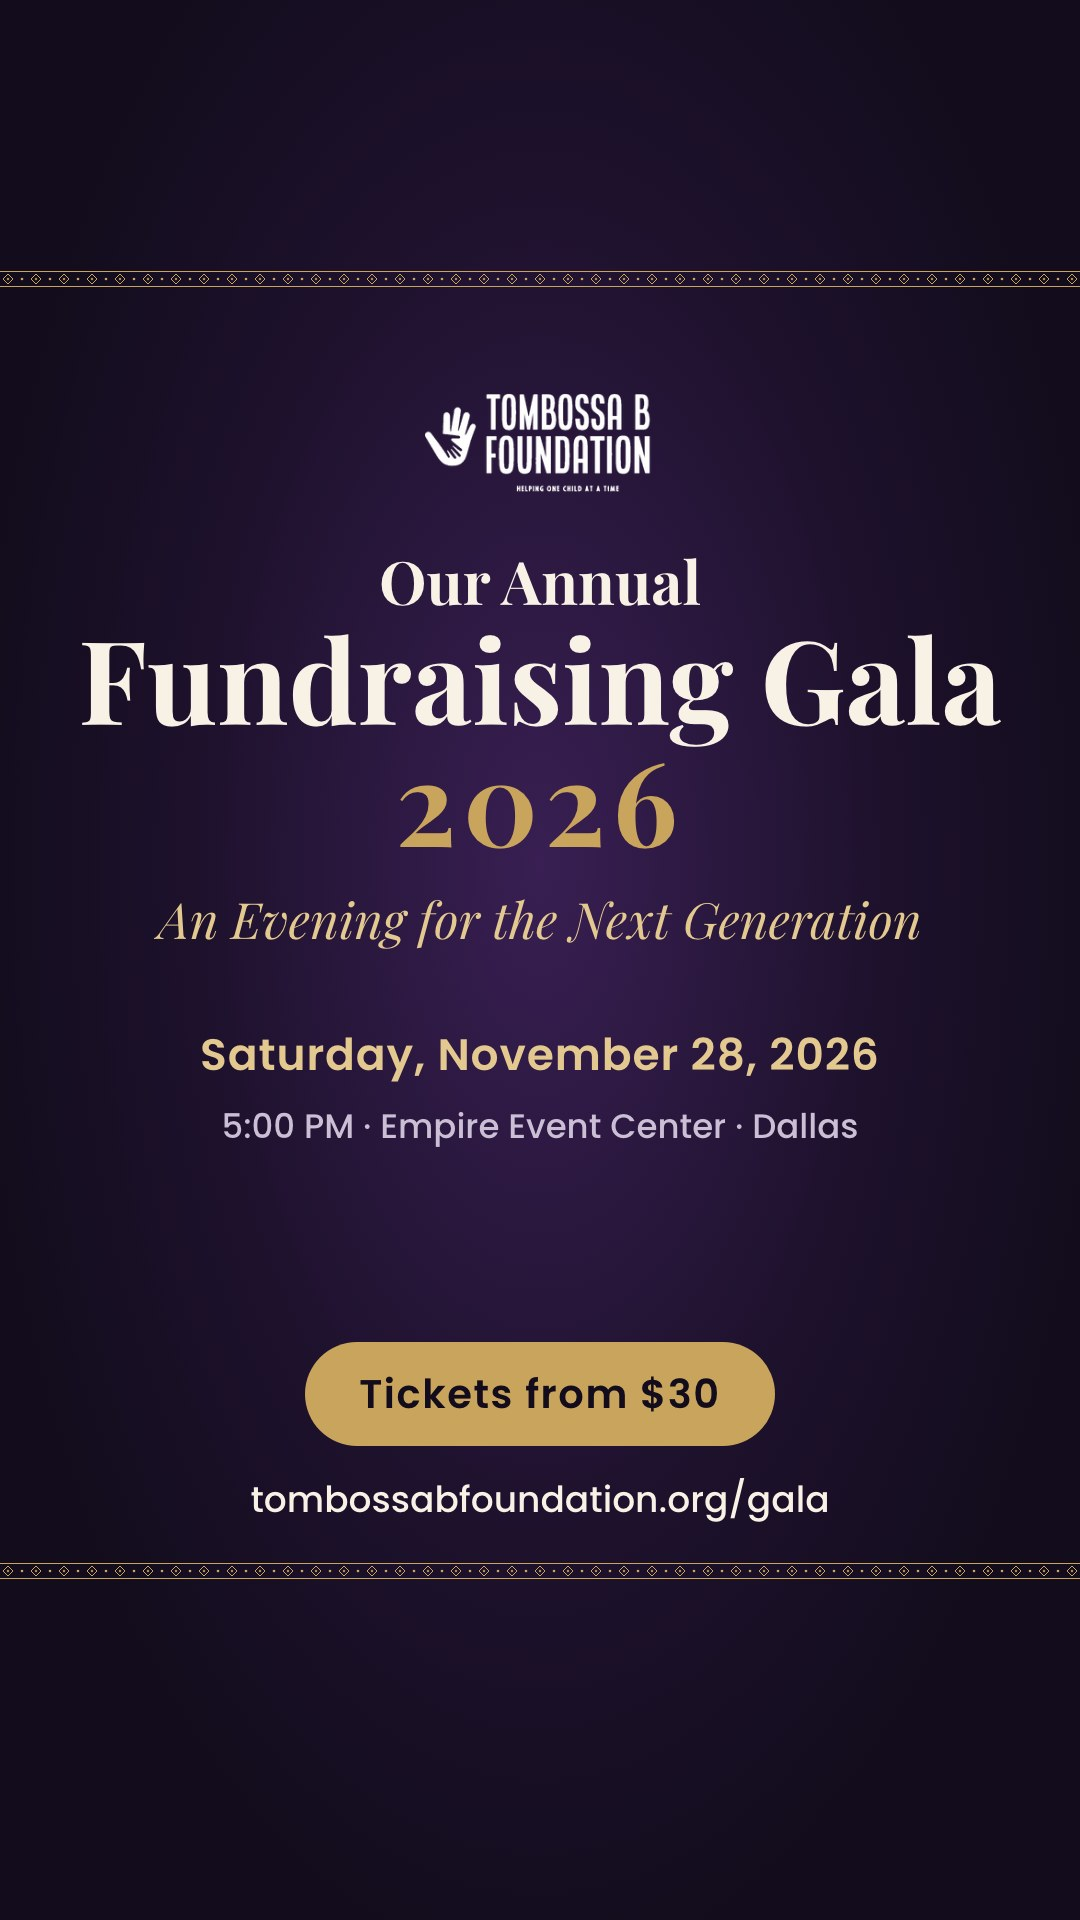
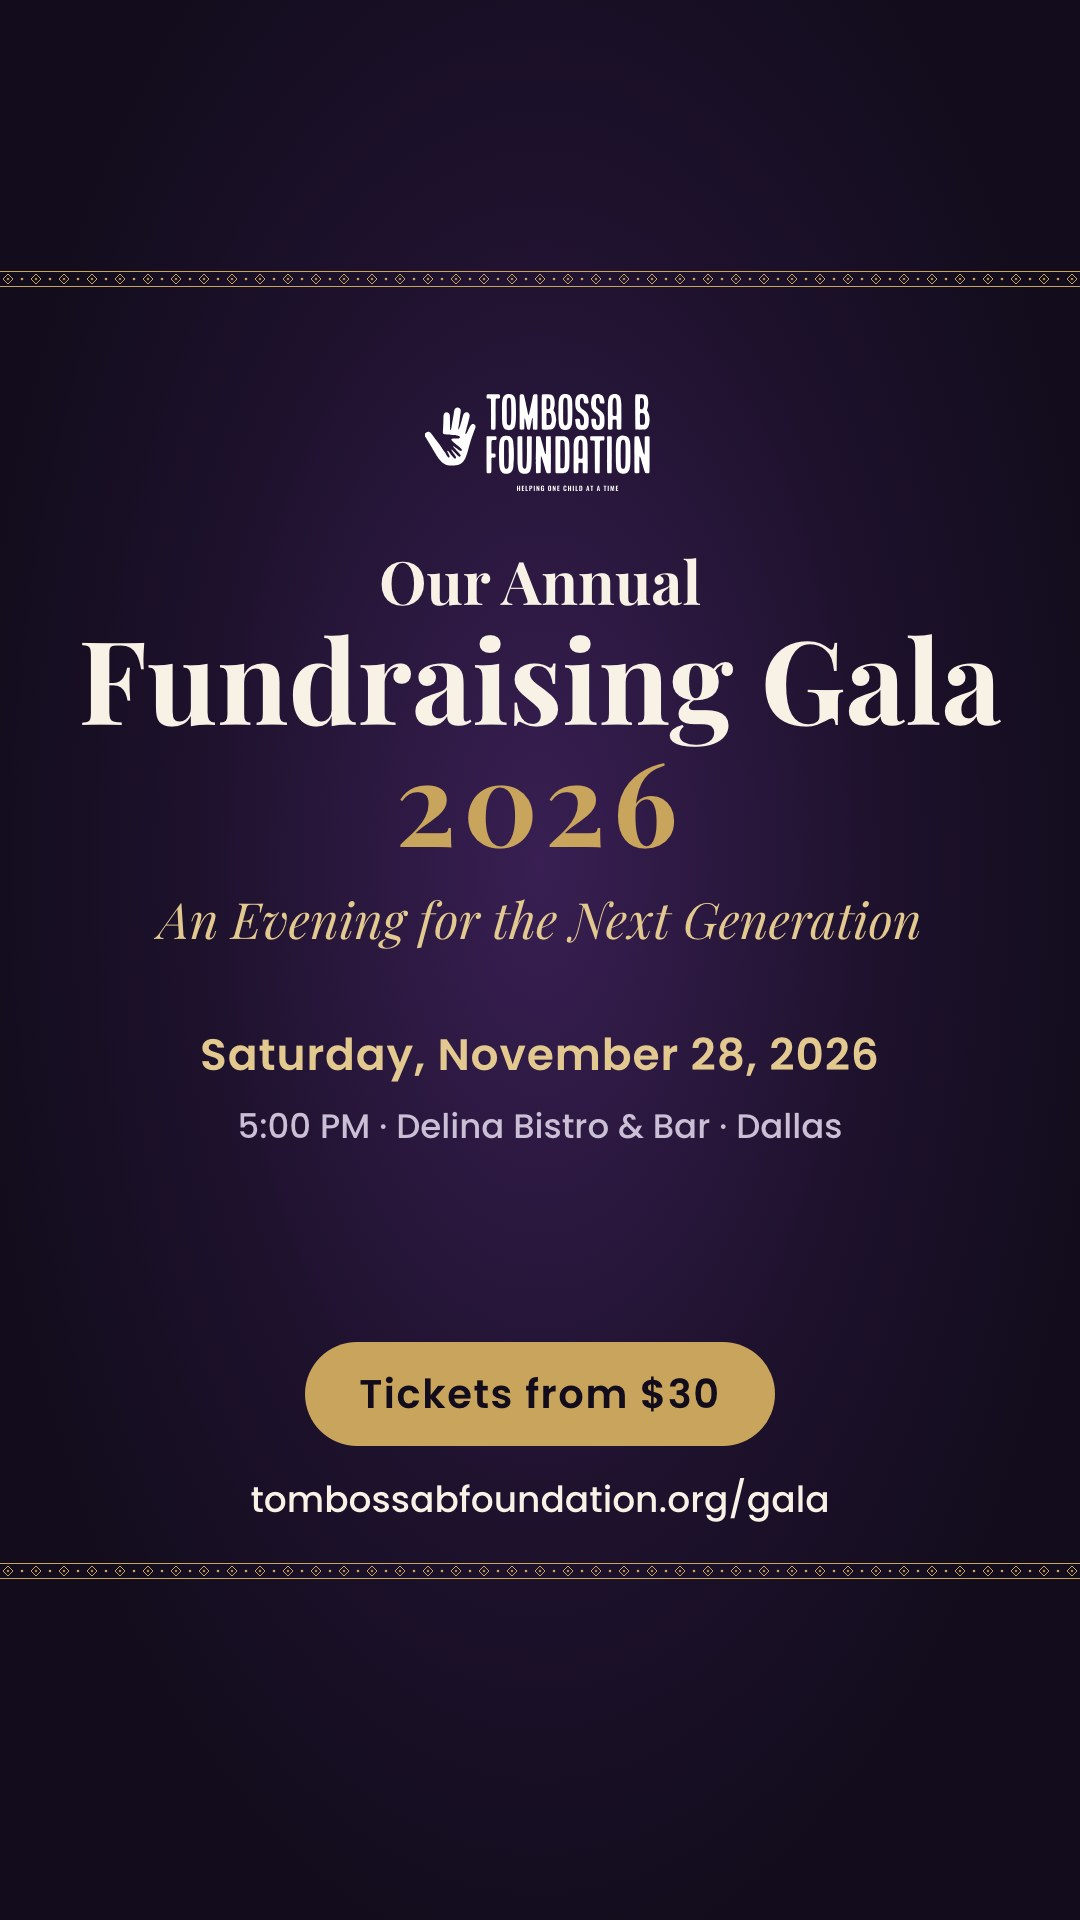
fix: move the gala to Delina Bistro & Bar and flag the new location

Changed region(s): [[0.2139, 0.5625, 0.7944, 0.5938], [0.4583, 0.2188, 0.5194, 0.25], [0.55, 0.2188, 0.5806, 0.25]]

diff --git a/frontend/lib/gala.js b/frontend/lib/gala.js
@@ -74,6 +74,22 @@ export const venueAddress = (g = GALA) => {
     return [name, street, venueCityLine(g)].filter(Boolean).join(', ');
 };
 
+// While venue.previousName is set (the venue changed after it was announced):
+// "New location: the gala has moved from Empire Event Center to Delina Bistro &
+// Bar, 6770 Abrams Rd #105, Dallas." for the /gala hero, and the shorter
+// "New location: Delina Bistro & Bar, 6770 Abrams Rd #105" for the homepage
+// slide. Both null otherwise.
+export const venueNotice = (g = GALA) => {
+    if (!hasVenue(g) || !g.venue.previousName) return null;
+    const { name, street, city, previousName } = g.venue;
+    return `New location: the gala has moved from ${previousName} to ${[name, street, city].filter(Boolean).join(', ')}.`;
+};
+
+export const venueNoticeShort = (g = GALA) => {
+    if (!hasVenue(g) || !g.venue.previousName) return null;
+    return `New location: ${[g.venue.name, g.venue.street].filter(Boolean).join(', ')}`;
+};
+
 // ---------------------------------------------------------------- state
 
 const CST_END_OF_DAY = 'T23:59:00-06:00';
@@ -247,7 +263,8 @@ export const icsContent = (now = new Date(), g = GALA) => {
         'CALSCALE:GREGORIAN',
         'METHOD:PUBLISH',
         'BEGIN:VEVENT',
-        `UID:gala-${g.year}@tombossabfoundation.org`,
+        // A new UID per calendarRevision (see the config).
+        `UID:gala-${g.year}${g.calendarRevision ? `-r${g.calendarRevision}` : ''}@tombossabfoundation.org`,
         `DTSTAMP:${utcStamp(now)}`,
         `DTSTART:${utcStamp(new Date(g.startAt))}`,
         ...(g.endAt ? [`DTEND:${utcStamp(new Date(g.endAt))}`] : []),

diff --git a/frontend/components/gala/Gala.module.css b/frontend/components/gala/Gala.module.css
@@ -315,6 +315,24 @@
     color: var(--gala-gold-soft);
     font-weight: 500;
 }
+/* "New location: ..." under the chips while venue.previousName is set: boxed
+   so guests who saw the old venue notice the change. */
+.venueNotice {
+    display: flex;
+    align-items: baseline;
+    gap: 10px;
+    max-width: 640px;
+    margin: 24px auto 0;
+    padding: 12px 18px;
+    border: 1px solid var(--gala-gold);
+    border-radius: 12px;
+    background: rgba(201, 164, 92, 0.12);
+    color: var(--gala-gold-soft);
+    font-weight: 500;
+    line-height: 1.55;
+    text-align: left;
+}
+.venueNotice i { color: var(--gala-gold); }
 
 /* ------------------------------------------------------------ story */
 
@@ -854,6 +872,8 @@
     }
     .chip { justify-content: center; gap: 8px; padding: 9px 10px; font-size: 13.5px; white-space: nowrap; }
     .chipWide { grid-column: 1 / -1; }
+    /* As wide as the chips above it. */
+    .venueNotice { max-width: 360px; margin: 20px max(-28px, calc((100% - 360px) / 2)) 0; padding: 10px 14px; font-size: 15px; }
     .shareButtons .btn { flex: 1 1 calc(50% - 12px); padding: 0 14px; }
 }
 
@@ -861,7 +881,7 @@
     .container.heroInner { padding: 0 40px 48px; }
     .h1 { font-size: calc((100vw - 80px) / 5.95); }
     .titleLead { font-size: 18px; }
-    .chips { margin-left: max(-26px, calc((100% - 360px) / 2)); margin-right: max(-26px, calc((100% - 360px) / 2)); }
+    .chips, .venueNotice { margin-left: max(-26px, calc((100% - 360px) / 2)); margin-right: max(-26px, calc((100% - 360px) / 2)); }
     .chip { gap: 6px; padding: 8px; font-size: 13px; }
 }
 

diff --git a/frontend/components/SliderOne.js b/frontend/components/SliderOne.js
@@ -12,12 +12,14 @@ import { Pagination, Autoplay } from 'swiper/modules';
 
 import { useGala } from './gala/GalaState';
 import { gala } from '../config/gala-2026';
+import { venueNoticeShort } from '../lib/gala';
 
-// Gala slide copy per gala state (config/gala-2026.js holds the text).
+// Gala slide copy per gala state (config/gala-2026.js holds the text). Until the
+// night, a venue change (venue.previousName) takes the subline's place.
 const GALA_SLIDE = {
-    coming_soon: { subline: gala.homeSlide.subline, primary: 'Learn More', sponsor: true, kicker: true },
-    on_sale: { subline: gala.homeSlide.subline, primary: 'Learn More', sponsor: true, kicker: true },
-    online_closed: { subline: gala.homeSlide.closedSubline, primary: 'Event Details', sponsor: false, kicker: false },
+    coming_soon: { subline: venueNoticeShort() ?? gala.homeSlide.subline, primary: 'Learn More', sponsor: true, kicker: true },
+    on_sale: { subline: venueNoticeShort() ?? gala.homeSlide.subline, primary: 'Learn More', sponsor: true, kicker: true },
+    online_closed: { subline: venueNoticeShort() ?? gala.homeSlide.closedSubline, primary: 'Event Details', sponsor: false, kicker: false },
     past: { subline: gala.homeSlide.pastSubline, primary: 'See the Recap', sponsor: false, kicker: false },
 };
 

diff --git a/frontend/config/gala-2026.js b/frontend/config/gala-2026.js
@@ -28,12 +28,21 @@ export const gala = {
     startTimeConfirmed: true,
     endAt: '2026-11-28T22:00:00-06:00', // 10:00 PM CST
     venue: {
-        name: 'Empire Event Center',
-        street: '9560 Skillman St, Suite 126',
+        name: 'Delina Bistro & Bar',
+        street: '6770 Abrams Rd #105',
         city: 'Dallas',
         region: 'TX',
-        postalCode: '75243',
+        postalCode: '75231',
+        // The venue announced before this one (moved on Nov 23). While set, /gala
+        // and the homepage slide flag the new location until the night; null = no notice.
+        previousName: 'Empire Event Center',
     },
+    // Calendar revision: bump it whenever the time or venue changes after people
+    // may have saved the event. Calendar apps don't reliably update a saved copy
+    // (Apple Calendar and Google ignore a re-added .ics with the same UID), so
+    // each revision gets its own UID: adding the event again always creates an
+    // entry with the new details. Guests are asked to delete the old one.
+    calendarRevision: 1,
     dressCode: {
         label: 'Cocktail Attire',
         detail:

diff --git a/frontend/components/gala/GalaHero.js b/frontend/components/gala/GalaHero.js
@@ -1,6 +1,6 @@
 import React from 'react';
 import { gala } from '../../config/gala-2026';
-import { BEFORE_EVENT, timeRange } from '../../lib/gala';
+import { BEFORE_EVENT, timeRange, venueNotice } from '../../lib/gala';
 import { ShowIn } from './GalaState';
 import Countdown from './Countdown';
 import Motif from './Motif';
@@ -43,6 +43,12 @@ const GalaHero = () => {
                 </ul>
 
                 <ShowIn states={BEFORE_EVENT}>
+                    {venueNotice() && (
+                        <p className={styles.venueNotice}>
+                            <i className="fa fa-map-marker" aria-hidden="true"></i>
+                            {venueNotice()}
+                        </p>
+                    )}
                     <div className={styles.intro}>
                         {gala.copy.intro.map((para) => <p key={para}>{para}</p>)}
                     </div>

diff --git a/frontend/components/gala/GalaFaq.js b/frontend/components/gala/GalaFaq.js
@@ -17,7 +17,11 @@ const WhenWhere = () => {
         );
     }
     const { name, street } = gala.venue;
-    const mapSrc = `https://maps.google.com/maps?q=${encodeURIComponent(venueAddress())}&output=embed`;
+    // The street address alone gets one pin and an address card. With the
+    // venue's name and suite number too, Google answers with a list of places
+    // in the building instead (no pin).
+    const mapQuery = street ? `${street}, ${venueCityLine()}` : venueAddress();
+    const mapSrc = `https://maps.google.com/maps?q=${encodeURIComponent(mapQuery)}&output=embed`;
     return (
         <>
             <p>{timeRange() ? `${gala.dateDisplay}, ${timeRange()}.` : `${gala.dateDisplay}. Time to be announced.`}</p>

diff --git a/docs/gala-2026-launch-checklist.md b/docs/gala-2026-launch-checklist.md
@@ -1,8 +1,29 @@
 # Gala 2026 launch checklist
 
-Manual steps outside the code for **https://tombossabfoundation.org/gala** (The Tombossa B Foundation Fundraising Gala, Saturday, November 28, 2026, Empire Event Center, Dallas). Everything the site shows comes from `frontend/config/gala-2026.js`; editing that file, then committing and deploying, is all a content change needs.
+Manual steps outside the code for **https://tombossabfoundation.org/gala** (The Tombossa B Foundation Fundraising Gala, Saturday, November 28, 2026, Delina Bistro & Bar, 6770 Abrams Rd #105, Dallas, TX 75231; moved from Empire Event Center on November 23). Everything the site shows comes from `frontend/config/gala-2026.js`; editing that file, then committing and deploying, is all a content change needs.
 
 > The gala ships with the decoupling refactor (Vercel frontend). The live site is still the old nginx build, so none of this is public until the cutover in `deploy/RUNBOOK.md`.
+
+## Venue change (November 23): make sure every guest knows
+
+The site shows the new venue everywhere it shows one: the `/gala` hero and FAQ (with its map), the `/events` card, the calendar link and `.ics` file, the search-engine event data, and the Instagram story image. Until the night it also flags the move: a "New location" notice on the `/gala` hero (naming both venues) and on the homepage gala slide. Both go away on their own once the gala is over; to remove them sooner, set `venue.previousName` to `null`.
+
+Calendar apps never update an entry a guest already saved: Apple Calendar and Google ignore a re-added file with the same event ID, and Outlook varies by app. So the `.ics` download now has a new event ID (`calendarRevision: 1`), and adding it again always creates an entry with the new venue; guests have to delete the old one themselves. Everything else happens outside the code:
+
+- [ ] **Zeffy, the address**: Campaigns → the ⋯ next to the gala → Edit → change the address → Save. Form links don't change. Zeffy does **not** tell anyone about the change.
+- [ ] **Zeffy, the reminder email**: Campaigns → Edit → **Automated Emails**. The reminder's text was written from the old address and doesn't update by itself. Edit the 1-day reminder (it goes out November 27) before it sends. The 7-day reminder (around November 21) has probably already gone out with the old address.
+- [ ] **Email every ticket holder** from Zeffy: Campaigns → **Communications** → New email. Recipients are preselected as current ticket holders, and you can schedule a second send closer to the day. Say:
+  - the new venue and address, and that the date and time are unchanged (Saturday, November 28, 5:00–10:00 PM);
+  - parking;
+  - that their ticket and QR code still work, even though the ticket PDF shows the old venue (Zeffy can't reissue a ticket without cancelling it);
+  - "If you saved the gala to your calendar, change the location in that entry, or delete it and add it again from tombossabfoundation.org/gala (Google Calendar users: use 'Add to Google Calendar' there)."
+- [ ] **Text guests**: Zeffy can't send texts. Export the guest list (Campaigns → ⋯ → Manage → Guest list) and text or call anyone you have a number for, especially people who don't read email.
+- [ ] **Social**: post the change on Instagram and Facebook (feed and story) and pin it. Repost the regenerated story image (`public/images/gala-2026-story.jpg`, which now shows the new venue) or download it from `/gala` with "Share to Instagram Story".
+- [ ] **Newsletter subscribers**: send a short update.
+- [ ] **Everyone working the night**: speakers and scholars, performers or DJ, caterer, volunteers, photographer, sponsors, and auction donors (deliveries go to the new address).
+- [ ] **Printed materials** showing the old venue (flyers, posters, programs, table signs): reprint or sticker them. QR codes still work: they open `/gala`.
+- [ ] **On the day**: put a sign at Empire Event Center (9560 Skillman St, Suite 126), ideally with a volunteer from about 4:30 PM, pointing to 6770 Abrams Rd #105 with the `/gala` QR code. Also tell Empire Event Center, in case guests call them.
+- [ ] **Google**: in Search Console, inspect https://tombossabfoundation.org/gala and click "Request Indexing", so the event listing picks up the new location sooner. Google gives no timeline, so a search listing may show the old venue for a few days anyway.
 
 ## 1. Checkout platform setup
 
